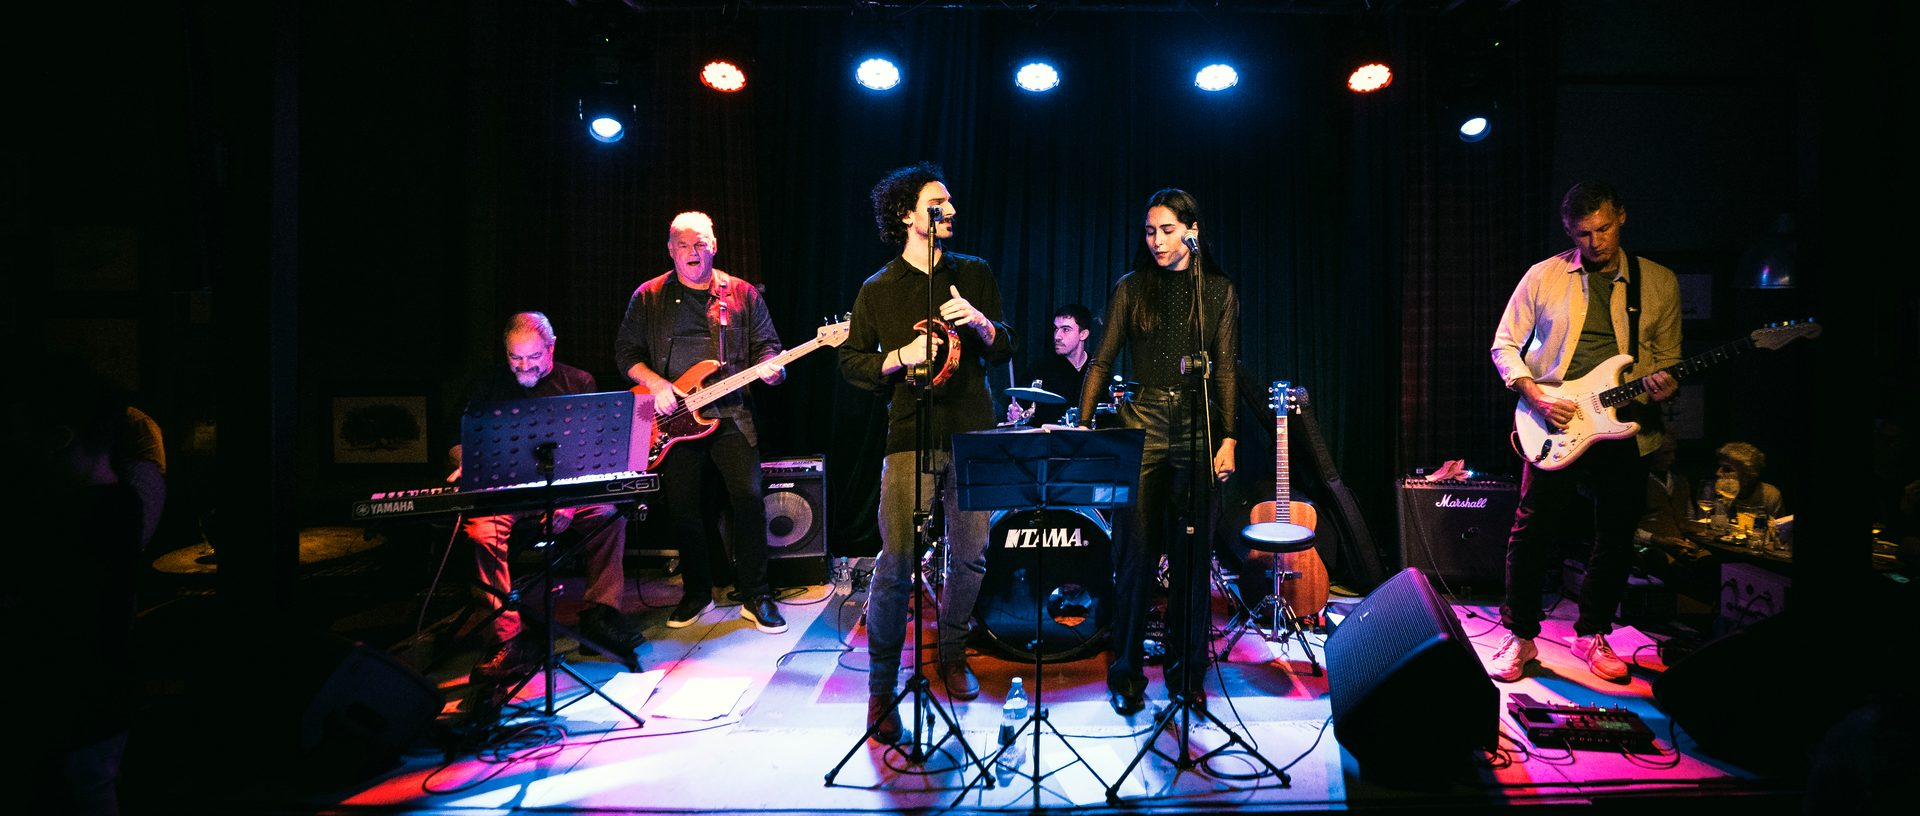
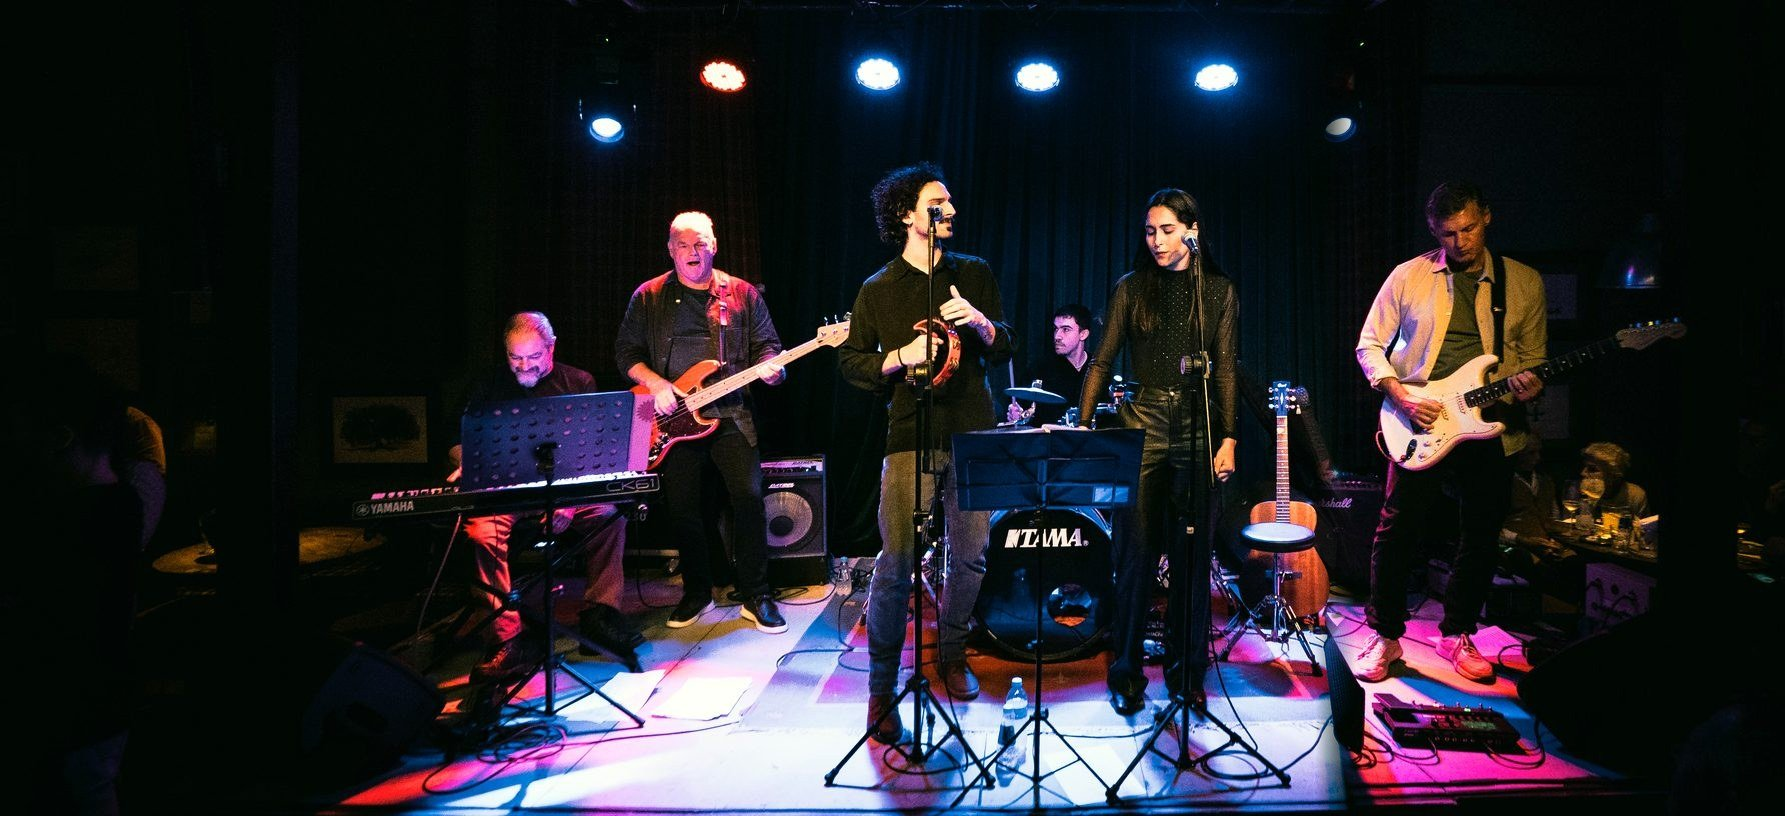
Edicao na foto do hero: guitarrista aproximado da cantora
Removida a faixa do amplificador/retorno entre a cantora e o guitarrista
da direita (emenda com transicao suave; parte do Marshall permanece
atras do violao e a emenda passa por foto real). A foto ficou 1785x816:
no celular todos os seis aparecem maiores, e no desktop a banda inteira
agora cabe no enquadramento. Proporcao do CSS mobile ajustada (45.7%).

diff --git a/css/style.css b/css/style.css
@@ -160,14 +160,15 @@ nav.site a.backlink:hover { background: #AF072A; color: #FFFFFF; }
 .poster-photo .inner { padding-top: 26px; padding-bottom: 26px; }
 
 /* celular: mostra a foto inteira (sem cortar os músicos das pontas);
-   a foto tem proporção 1920x816 → altura = 42.5% da largura da tela */
+   a foto (editada: guitarrista aproximado da cantora) tem proporção
+   1785x816 → altura = 45.7% da largura da tela */
 @media (max-width: 640px) {
   .poster-photo {
     min-height: 0;
-    padding-top: 40vw;
+    padding-top: 43vw;
     background:
       linear-gradient(180deg, var(--red) 0, rgba(175, 7, 42, 0) 6vw),
-      linear-gradient(180deg, rgba(14, 8, 18, 0) 32vw, var(--bg) 42.5vw),
+      linear-gradient(180deg, rgba(14, 8, 18, 0) 35vw, var(--bg) 45.7vw),
       url("../media/hero.jpg") center top / 100% auto no-repeat,
       var(--bg);
   }